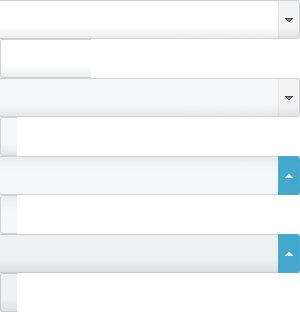
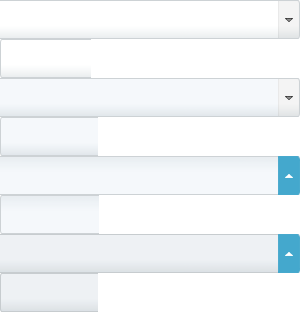
805 fix

diff --git a/www/static/develop/css/adaptive/extra-small-phones.css b/www/static/develop/css/adaptive/extra-small-phones.css
@@ -399,10 +399,17 @@
 		text-align: center;
 	}
 
+}
+
+@media (max-width: 430px){
+
 	.filter-item {
 	   width: 100% !important;
 	}
 
+	.tab-filter .filters-items .column-list{
+		width: 250px !important;
+	}
 }
 
 @media (max-width: 400px){
